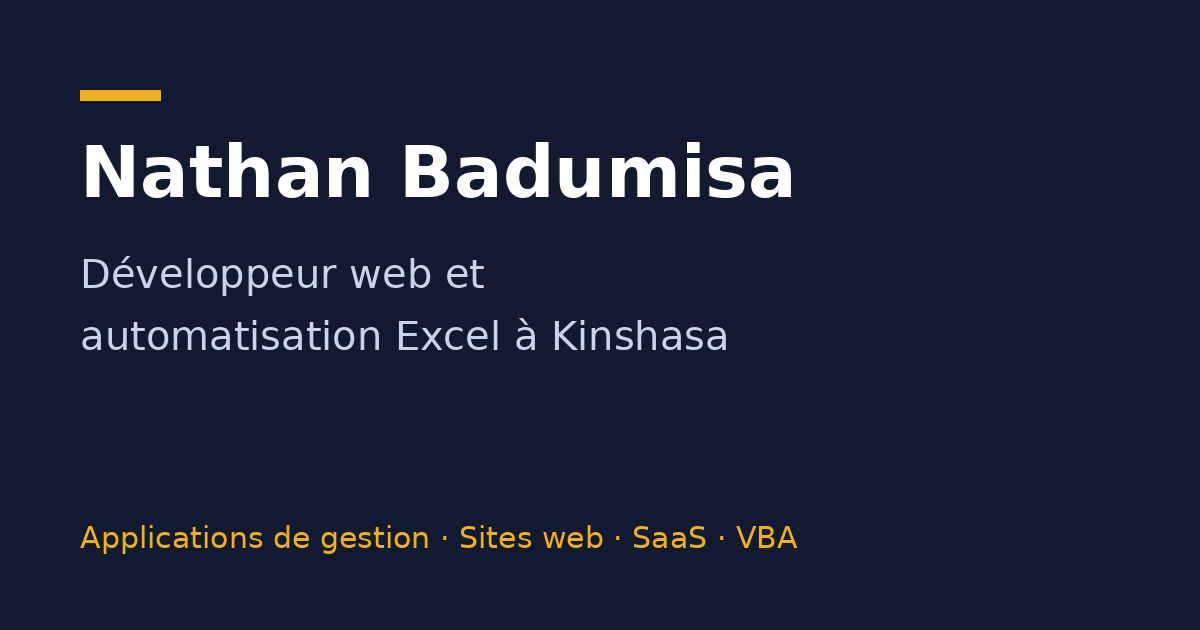
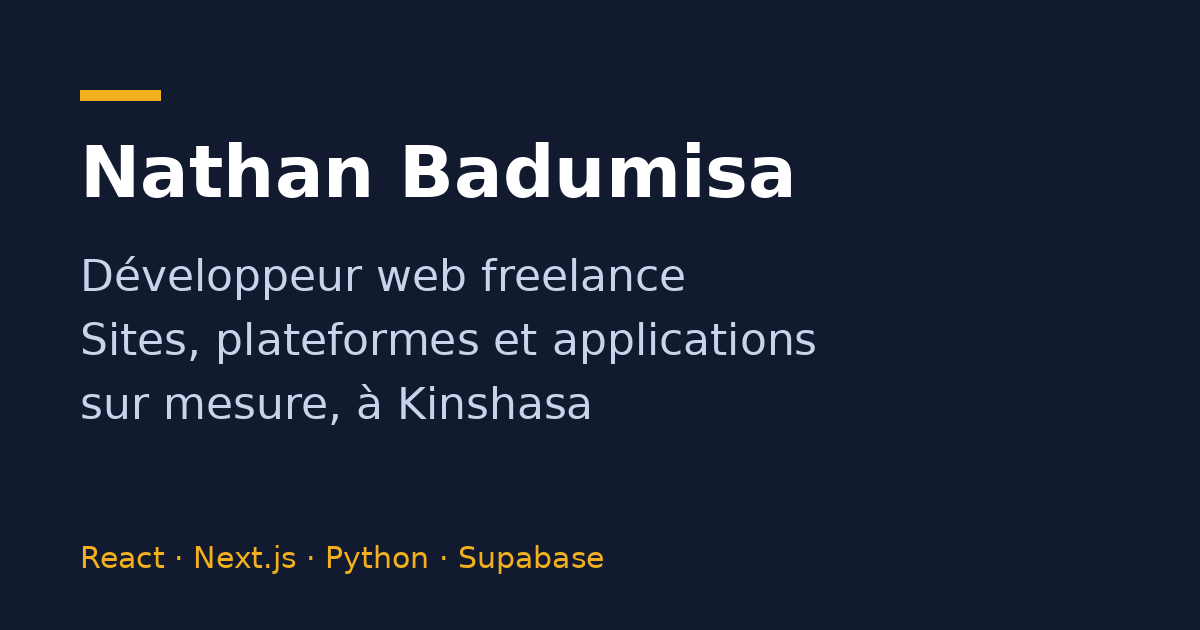
Hero centré sur le développement web : aperçu de projets, démo FEFO déplacée dans Services
Claude-Session: https://claude.ai/code/session_01BgJ4P5sYwq5Zt3KHPqDKdc

diff --git a/index.html b/index.html
@@ -3,15 +3,15 @@
 <head>
 <meta charset="UTF-8">
 <meta name="viewport" content="width=device-width, initial-scale=1.0">
-<title>Nathan Badumisa — Développeur web et automatisation Excel à Kinshasa</title>
-<meta name="description" content="Développeur freelance à Kinshasa. Applications de gestion, sites web, SaaS et automatisation Excel, VBA et Google Sheets pour pharmacies, cliniques et PME. Disponible à distance.">
+<title>Nathan Badumisa — Développeur web freelance à Kinshasa</title>
+<meta name="description" content="Développeur web freelance à Kinshasa. Sites web, plateformes, applications de gestion et SaaS sur mesure avec React, Next.js et Python. Disponible à distance.">
 <link rel="canonical" href="https://nathan-dev-portfolio.vercel.app/">
 <meta name="theme-color" content="#F5F6F8" media="(prefers-color-scheme: light)">
 <meta name="theme-color" content="#0E1424" media="(prefers-color-scheme: dark)">
 <meta property="og:type" content="website">
 <meta property="og:locale" content="fr_FR">
-<meta property="og:title" content="Nathan Badumisa — Développeur web et automatisation Excel">
-<meta property="og:description" content="Applications de gestion, sites web, SaaS et automatisation Excel, VBA et Google Sheets. Freelance à Kinshasa, disponible à distance.">
+<meta property="og:title" content="Nathan Badumisa — Développeur web freelance">
+<meta property="og:description" content="Sites web, plateformes, applications de gestion et SaaS sur mesure. Freelance à Kinshasa, disponible à distance.">
 <meta property="og:url" content="https://nathan-dev-portfolio.vercel.app/">
 <meta property="og:image" content="https://nathan-dev-portfolio.vercel.app/images/og.png">
 <meta name="twitter:card" content="summary_large_image">
@@ -24,7 +24,7 @@
   "@context": "https://schema.org",
   "@type": "Person",
   "name": "Nathan Badumisa",
-  "jobTitle": "Développeur web et automatisation Office",
+  "jobTitle": "Développeur web freelance",
   "url": "https://nathan-dev-portfolio.vercel.app/",
   "image": "https://nathan-dev-portfolio.vercel.app/images/photo.jpg",
   "address": { "@type": "PostalAddress", "addressLocality": "Kinshasa", "addressCountry": "CD" },
@@ -140,6 +140,35 @@
   .btn-main:hover { filter: brightness(1.1); }
   .btn-line { background: transparent; color: var(--ink); border-color: var(--line); }
   .btn-line:hover { border-color: var(--ink); }
+
+
+  /* ---------- Hero : navigateur ---------- */
+  .hero-tech { margin-top: 14px; font-size: 15px; color: var(--ink-2); }
+  .browser {
+    background: var(--sheet); border: 1px solid var(--line); border-radius: 14px;
+    box-shadow: 0 18px 48px rgba(17,26,46,0.12); overflow: hidden;
+  }
+  .browser-bar { display: flex; align-items: center; gap: 14px; padding: 12px 16px; border-bottom: 1px solid var(--line); background: var(--paper); }
+  .lights { display: flex; gap: 6px; }
+  .lights i { width: 10px; height: 10px; border-radius: 50%; background: var(--line); display: block; }
+  .browser-title { font-size: 13.5px; color: var(--ink-2); font-weight: 500; }
+  .browser-view { aspect-ratio: 16 / 10; background: var(--paper); overflow: hidden; }
+  .browser-view img { width: 100%; height: 100%; object-fit: cover; object-position: top; transition: opacity .25s ease; }
+  .browser-view img.swap { opacity: 0; }
+  .browser-tabs { display: flex; gap: 8px; flex-wrap: wrap; padding: 14px 16px 4px; }
+  .tab {
+    font: inherit; font-size: 14.5px; font-weight: 500; cursor: pointer;
+    padding: 8px 14px; border-radius: 8px; border: 1px solid var(--line);
+    background: transparent; color: var(--ink-2);
+  }
+  .tab:hover { border-color: var(--ink); color: var(--ink); }
+  .tab[aria-pressed="true"] { background: var(--ink); color: var(--paper); border-color: var(--ink); }
+  .browser-note { padding: 8px 16px 16px; font-size: 14.5px; color: var(--ink-2); min-height: 3.4em; }
+
+  /* ---------- Démo FEFO dans Services ---------- */
+  .demo-block { margin-top: 24px; }
+  .demo-title { margin-top: 56px; }
+  .demo-block .sheet { margin-top: 28px; max-width: 560px; }
 
   /* ---------- Demo: stock FEFO ---------- */
   .sheet {
@@ -265,7 +294,7 @@
   @media (prefers-reduced-motion: reduce) {
     html { scroll-behavior: auto; }
     .lot-row, .lot-row.hit td { animation: none; }
-    .shot-frame img { transition: none; }
+    .shot-frame img, .browser-view img { transition: none; }
     .shot:hover img { transform: none; }
   }
 </style>
@@ -302,15 +331,70 @@
   <section class="hero" id="top">
     <div class="wrap hero-grid">
       <div>
-        <h1>Je transforme vos fichiers Excel et vos tâches répétitives en outils qui travaillent seuls.</h1>
-        <p class="hero-sub">Je suis développeur freelance à Kinshasa. Je crée des applications de gestion, des sites web et des automatisations pour les pharmacies, les centres de santé et les petites entreprises.</p>
+        <h1>Je crée des sites et des applications web sur mesure pour votre activité.</h1>
+        <p class="hero-sub">Je suis développeur web freelance à Kinshasa. Plateformes en ligne, applications de gestion, SaaS et sites vitrines : rapides sur mobile, faciles à faire évoluer, livrés de la conception à la mise en ligne.</p>
         <div class="hero-actions">
           <a class="btn btn-main" href="#contact">Parler de votre projet</a>
           <a class="btn btn-line" href="#projets">Voir mes projets</a>
         </div>
+        <p class="hero-tech">Je travaille avec React, Next.js, Python, Supabase et Firebase.</p>
         <p class="hero-status"><span class="dot" aria-hidden="true"></span>Disponible pour de nouvelles missions, à distance</p>
       </div>
 
+      <div class="browser" id="browser">
+        <div class="browser-bar">
+          <span class="lights" aria-hidden="true"><i></i><i></i><i></i></span>
+          <span class="browser-title" id="browser-title">Nathan Trading Academy</span>
+        </div>
+        <div class="browser-view">
+          <img id="browser-img" src="images/project-nta.png" alt="Aperçu de la plateforme Nathan Trading Academy" width="1920" height="1080">
+        </div>
+        <div class="browser-tabs" role="group" aria-label="Choisir un projet à afficher">
+          <button type="button" class="tab" aria-pressed="true" data-img="images/project-nta.png" data-title="Nathan Trading Academy" data-note="Plateforme de cours vidéo avec certificats et espace d'administration.">Plateforme de cours</button>
+          <button type="button" class="tab" aria-pressed="false" data-img="images/project-signal.png" data-title="SIGNAL" data-note="Application web pour copier des trades entre comptes MetaTrader 5.">Application SaaS</button>
+          <button type="button" class="tab" aria-pressed="false" data-img="images/project-kindrive.png" data-title="KinDrive" data-note="Site web et identité d'une auto-école de Kinshasa.">Site vitrine</button>
+        </div>
+        <p class="browser-note" id="browser-note" aria-live="polite">Plateforme de cours vidéo avec certificats et espace d'administration.</p>
+      </div>
+    </div>
+  </section>
+
+  <section class="block" id="services">
+    <div class="wrap">
+      <h2 class="block-title">Ce que je construis pour vous</h2>
+      <p class="block-lead">Un seul interlocuteur, de l'analyse de votre besoin jusqu'à la mise en service.</p>
+      <div class="rows">
+        <div class="row">
+          <h3>Sites web et plateformes</h3>
+          <div>
+            <p>Site vitrine, plateforme de formation, boutique ou espace client : un site clair, rapide sur mobile et pensé pour être trouvé et utilisé facilement.</p>
+            <p>Exemples : Nathan Trading Academy et KinDrive.</p>
+          </div>
+        </div>
+        <div class="row">
+          <h3>Applications de gestion et SaaS</h3>
+          <div>
+            <p>Stock, caisse, facturation, suivi de production : une application web faite pour votre façon de travailler, qui reste utilisable même quand la connexion est instable.</p>
+            <p>Exemples : Pharmalink, LA BONTÉ et PIMBO.</p>
+          </div>
+        </div>
+        <div class="row">
+          <h3>Automatisation Excel, VBA et Google Sheets</h3>
+          <div>
+            <p>Vous gardez vos outils habituels, je supprime la saisie en double, les erreurs de formules et les rapports faits à la main.</p>
+          </div>
+        </div>
+        <div class="row">
+          <h3>Robots et outils de trading</h3>
+          <div>
+            <p>Robots MQL5 pour MetaTrader 5 et outils de copie de trades, issus de mon activité de trader.</p>
+          </div>
+        </div>
+      </div>
+
+      <div class="demo-block">
+        <h3 class="sub-title demo-title">Un exemple d'automatisation</h3>
+        <p class="block-lead">Dans le logiciel de la pharmacie LA BONTÉ, le stock suit la règle FEFO : le lot qui expire en premier sort en premier. Essayez par vous-même.</p>
       <div class="sheet" id="demo">
         <div class="sheet-head">
           <div class="sheet-title">Stock de paracétamol 500 mg</div>
@@ -336,39 +420,6 @@
         </form>
         <p class="sell-out" id="sell-out" role="status" aria-live="polite">Essayez avec 30 boîtes, puis avec 20.</p>
       </div>
-    </div>
-  </section>
-
-  <section class="block" id="services">
-    <div class="wrap">
-      <h2 class="block-title">Ce que je construis pour vous</h2>
-      <p class="block-lead">Un seul interlocuteur, de l'analyse de votre besoin jusqu'à la mise en service.</p>
-      <div class="rows">
-        <div class="row">
-          <h3>Applications de gestion et SaaS</h3>
-          <div>
-            <p>Stock, caisse, facturation, suivi de production : une application web faite pour votre façon de travailler, qui reste utilisable même quand la connexion est instable.</p>
-            <p>Je travaille avec React, Next.js, Python (FastAPI), Supabase et Firebase.</p>
-          </div>
-        </div>
-        <div class="row">
-          <h3>Automatisation Excel, VBA et Google Sheets</h3>
-          <div>
-            <p>Vous gardez vos outils habituels, je supprime la saisie en double, les erreurs de formules et les rapports faits à la main. Macros, formulaires, tableaux de bord, applications Apps Script.</p>
-          </div>
-        </div>
-        <div class="row">
-          <h3>Sites web</h3>
-          <div>
-            <p>Sites vitrines et plateformes de formation, rapides sur mobile et faciles à faire évoluer.</p>
-          </div>
-        </div>
-        <div class="row">
-          <h3>Robots et outils de trading</h3>
-          <div>
-            <p>Robots MQL5 pour MetaTrader 5 et outils de copie de trades, issus de mon activité de trader.</p>
-          </div>
-        </div>
       </div>
     </div>
   </section>
@@ -515,6 +566,25 @@
 
 <script>
 (function () {
+  /* ---- Navigateur du hero ---- */
+  var tabs = document.querySelectorAll('.tab');
+  var bImg = document.getElementById('browser-img');
+  var bTitle = document.getElementById('browser-title');
+  var bNote = document.getElementById('browser-note');
+  Array.prototype.forEach.call(tabs, function (t) {
+    t.addEventListener('click', function () {
+      Array.prototype.forEach.call(tabs, function (o) { o.setAttribute('aria-pressed', o === t ? 'true' : 'false'); });
+      bImg.classList.add('swap');
+      setTimeout(function () {
+        bImg.src = t.getAttribute('data-img');
+        bImg.alt = 'Aperçu du projet ' + t.getAttribute('data-title');
+        bTitle.textContent = t.getAttribute('data-title');
+        bNote.textContent = t.getAttribute('data-note');
+        bImg.classList.remove('swap');
+      }, 180);
+    });
+  });
+
   /* ---- Démonstration FEFO ---- */
   var rows = Array.prototype.slice.call(document.querySelectorAll('#lots .lot-row'));
   var out = document.getElementById('sell-out');
